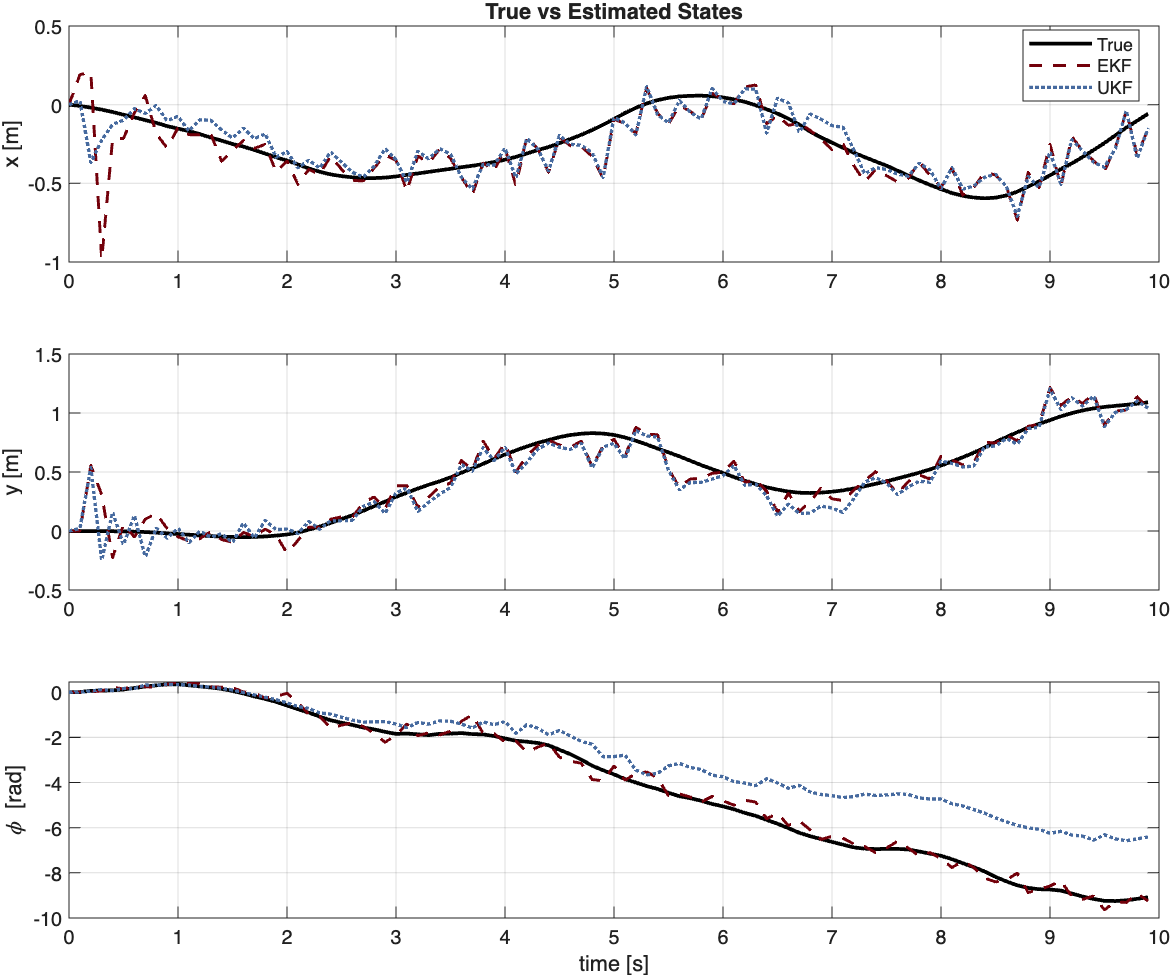
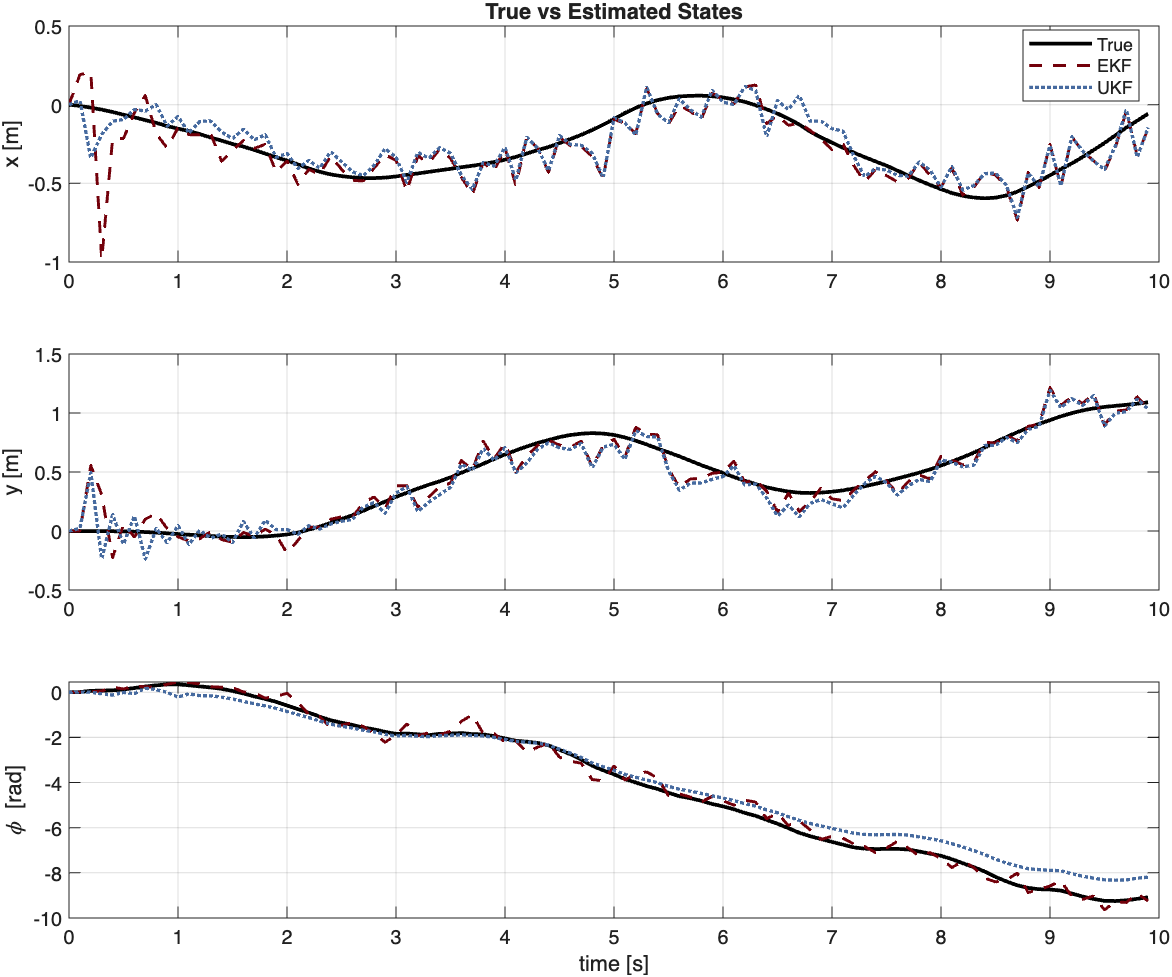
Fix HW6 UKF update logic

diff --git a/Sp26/EMCH792/HW6/ws/HW_6.m b/Sp26/EMCH792/HW6/ws/HW_6.m
@@ -70,11 +70,13 @@ for i = 2:time_steps
     K = P_pred * H' / S;
 
     x_upd = x_pred + K * y_innov;
-    P_upd = (eye(n) - K * H) * P_pred;
+    I3 = eye(n);
+    P_upd = (I3 - K * H) * P_pred * (I3 - K * H)' + K * R * K';
+    P_upd = (P_upd + P_upd') / 2;
 
     X_ekf(:, i)   = x_upd;
     P_ekf(:,:,i)  = P_upd;
-    sig_ekf(:, i) = sqrt(diag(P_upd));
+    sig_ekf(:, i) = sqrt(max(diag(P_upd), 0));
 end
 
 %% 2. Unscented Kalman Filter
@@ -93,7 +95,7 @@ for i = 2:time_steps
     u_prev = [ur(i-1); ul(i-1)];
 
     % --- Sigma points (2n, no center) ---
-    L = chol(P_prev, 'lower');
+    L = chol((P_prev + P_prev') / 2 + 1e-12 * eye(n), 'lower');
     x_sig = zeros(n, 2*n);
     for j = 1:n
         x_sig(:, 2*j - 1) = x_prev + sqrt(n) * L(:, j);
@@ -110,21 +112,15 @@ for i = 2:time_steps
     P_pred = Q;
     for j = 1:(2*n)
         ds = s_sig(:, j) - x_pred;
+        ds(3) = atan2(sin(ds(3)), cos(ds(3)));
         P_pred = P_pred + (ds * ds') / (2*n);
     end
+    P_pred = (P_pred + P_pred') / 2;
 
-    % --- Regenerate sigma points after prediction ---
-    L2 = chol(P_pred, 'lower');
-    x_sig2 = zeros(n, 2*n);
-    for j = 1:n
-        x_sig2(:, 2*j - 1) = x_pred + sqrt(n) * L2(:, j);
-        x_sig2(:, 2*j    ) = x_pred - sqrt(n) * L2(:, j);
-    end
-
-    % --- Measurement sigma points ---
+    % --- Measurement sigma points from propagated predicted sigma points ---
     y_sig = zeros(m, 2*n);
     for j = 1:(2*n)
-        y_sig(:, j) = h_robot(x_sig2(:, j));
+        y_sig(:, j) = h_robot(s_sig(:, j));
     end
     % Unwrap y2 angle values around predicted mean bearing to avoid branch cut
     ang_ref = atan2(x_pred(2), x_pred(1));
@@ -139,7 +135,8 @@ for i = 2:time_steps
     Pxy = zeros(n, m);
     for j = 1:(2*n)
         dy = y_sig(:, j) - y_mean;
-        dx = x_sig2(:, j) - x_pred;
+        dx = s_sig(:, j) - x_pred;
+        dx(3) = atan2(sin(dx(3)), cos(dx(3)));
         Pyy = Pyy + (dy * dy') / (2*n);
         Pxy = Pxy + (dx * dy') / (2*n);
     end
@@ -152,10 +149,11 @@ for i = 2:time_steps
     K = Pxy / Pyy;
     x_upd = x_pred + K * y_innov;
     P_upd = P_pred - K * Pyy * K';
+    P_upd = (P_upd + P_upd') / 2;
 
     X_ukf(:, i)   = x_upd;
     P_ukf(:,:,i)  = P_upd;
-    sig_ukf(:, i) = sqrt(diag(P_upd));
+    sig_ukf(:, i) = sqrt(max(diag(P_upd), 0));
 end
 
 %% 3. Plot the filters results
